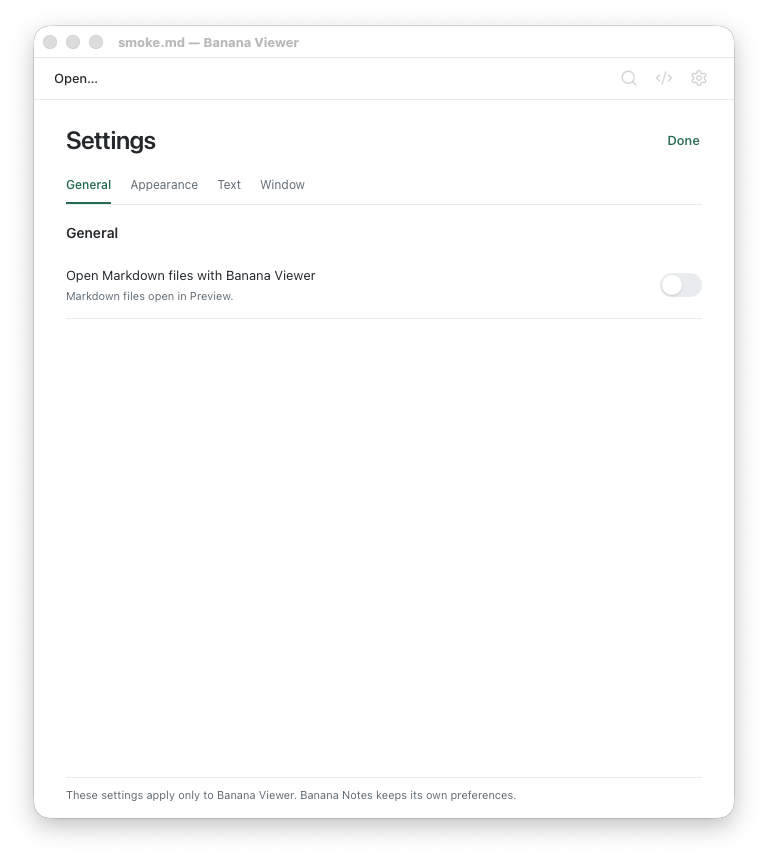
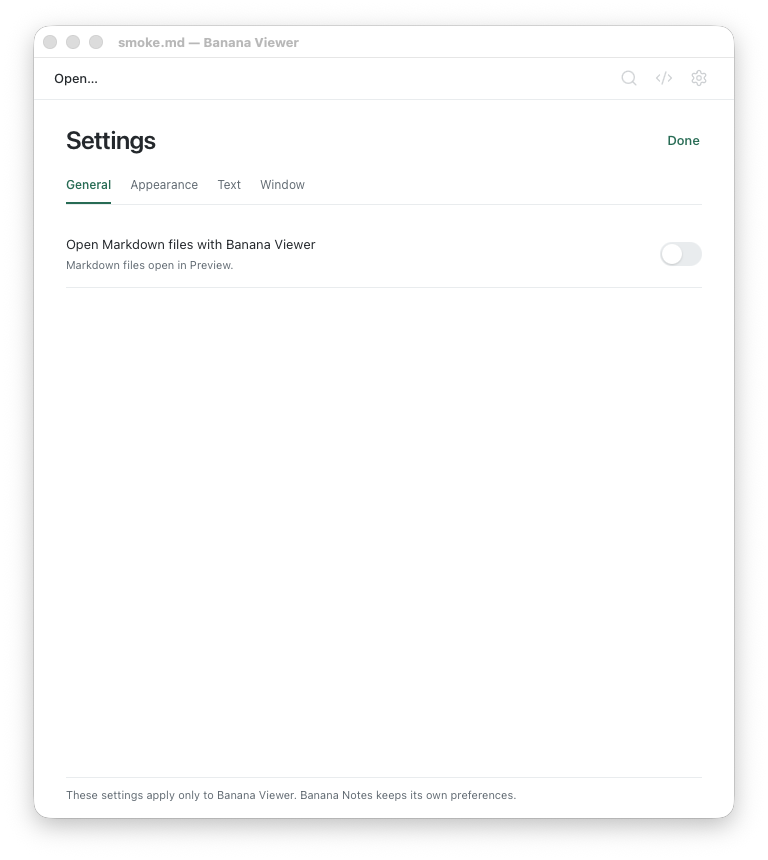
fix(viewer): remove redundant General heading

Changed region(s): [[0.0938, 0.2419, 0.4062, 0.3628]]

diff --git a/web/src/viewer/ui/settings-view.ts b/web/src/viewer/ui/settings-view.ts
@@ -204,7 +204,6 @@ export function renderViewerSettings(options: SettingsOptions): ViewerSettingsVi
   windowSection.append(legibility, reset); windowPanel.append(windowSection);
 
   const generalPanel = tabPanels.get('General')!;
-  const generalSection = section(doc, 'General');
   const defaultAppRow = doc.createElement('div'); defaultAppRow.className = 'viewer-default-app-row';
   const defaultAppCopy = doc.createElement('div'); defaultAppCopy.className = 'viewer-default-app-copy';
   const defaultAppLabel = doc.createElement('span'); defaultAppLabel.className = 'viewer-default-app-label';
@@ -217,7 +216,7 @@ export function renderViewerSettings(options: SettingsOptions): ViewerSettingsVi
   defaultAppSwitch.setAttribute('aria-describedby', defaultAppCaption.id);
   const defaultAppThumb = doc.createElement('span'); defaultAppThumb.className = 'viewer-default-app-switch-thumb'; defaultAppThumb.setAttribute('aria-hidden', 'true');
   defaultAppSwitch.append(defaultAppThumb);
-  defaultAppRow.append(defaultAppCopy, defaultAppSwitch); generalSection.append(defaultAppRow); generalPanel.append(generalSection);
+  defaultAppRow.append(defaultAppCopy, defaultAppSwitch); generalPanel.append(defaultAppRow);
 
   const error = doc.createElement('p'); error.className = 'viewer-settings-error viewer-settings-global-error'; error.setAttribute('role', 'alert'); error.hidden = true;
   const footer = doc.createElement('p'); footer.className = 'viewer-settings-footer'; footer.textContent = 'These settings apply only to Banana Viewer. Banana Notes keeps its own preferences.';

diff --git a/web/tests/viewer-app.test.ts b/web/tests/viewer-app.test.ts
@@ -134,6 +134,10 @@ test('General settings renders an accessible default-app switch without offering
     const { root, mounted } = app(port); await flush();
     root.querySelector<HTMLButtonElement>('[aria-label="Settings"]')!.click(); await flush();
     assert.equal(root.querySelector<HTMLButtonElement>('#viewer-settings-tab-general')?.getAttribute('aria-selected'), 'true');
+    const generalPanel = root.querySelector<HTMLElement>('#viewer-settings-panel-general')!;
+    assert.equal(generalPanel.getAttribute('aria-labelledby'), 'viewer-settings-tab-general');
+    assert.equal(generalPanel.querySelector('h2'), null, 'the tab name is not repeated as a section heading');
+    assert.ok(generalPanel.querySelector(':scope > .viewer-default-app-row'), 'the switch row is the first panel content');
     assert.equal(root.querySelector('#viewer-settings-tab-default-app'), null, 'the former Default app tab is removed');
     assert.equal(root.querySelector('.viewer-default-app-label')?.textContent, 'Open Markdown files with Banana Viewer');
     const toggle = root.querySelector<HTMLButtonElement>('.viewer-default-app-switch')!;
